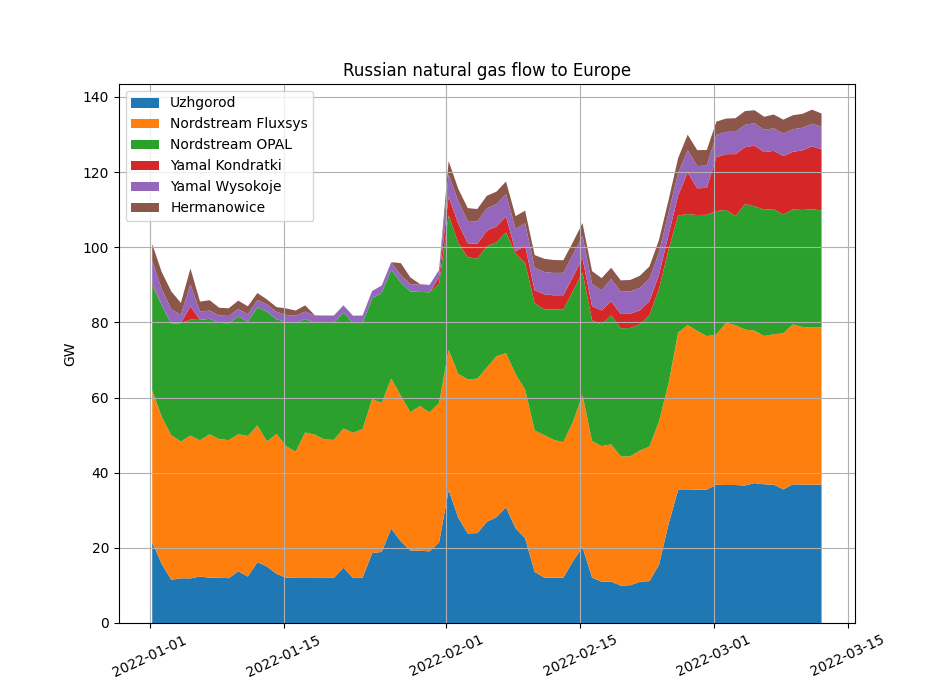
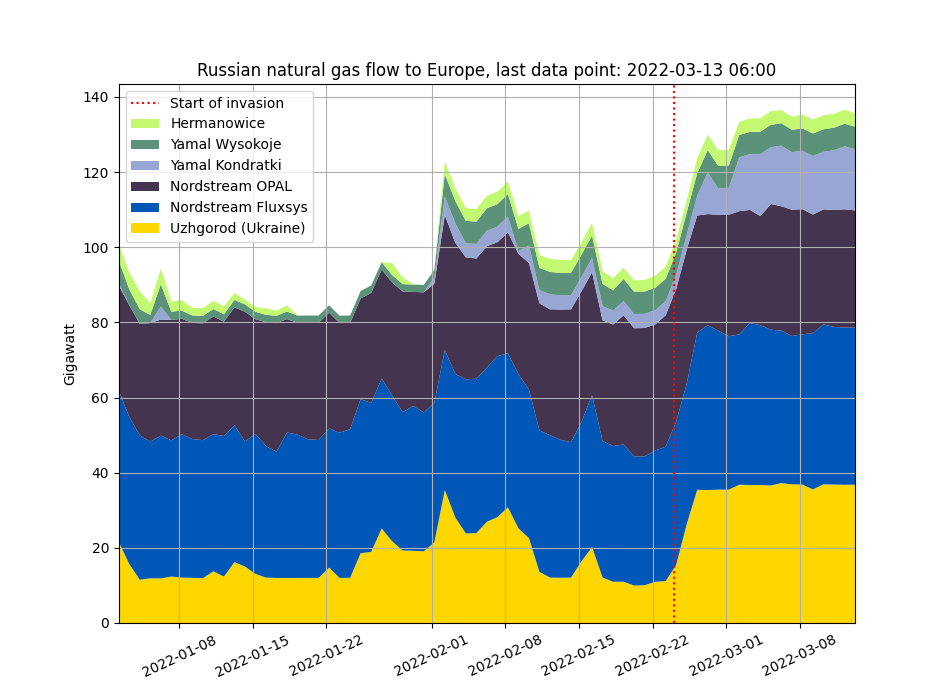
better scripts, more graphs

diff --git a/index.html b/index.html
@@ -1,5 +1,8 @@
 <html>
+<head>
+<meta charset="utf-8">
 <title>Russian gas flows to Europe</title>
+</head>
 <body>
 <center>
 Russian gas flows to Europe, sourced from ENTSO-G
@@ -7,7 +10,13 @@ Russian gas flows to Europe, sourced from ENTSO-G
 <small>Last update: 13th of March 2022</small>
 <br/>
 <img src="russian-gas.png">
-</center>
+<p>
+100GW = around 250 million m³/day (roughly). I don't know much
+about how the pricing works, but it appears to be over 2 €/m³.
+</p>
+
+ <img src="russian-gas-week.png">
+ </center>
 <p>
 Data sourced daily from <a href="https://entsog.eu">ENTSO-G</a>, the European Network of Transmission System Operators for
 Gas. Please let me know urgently if I am missing any pipelines, of if I am
